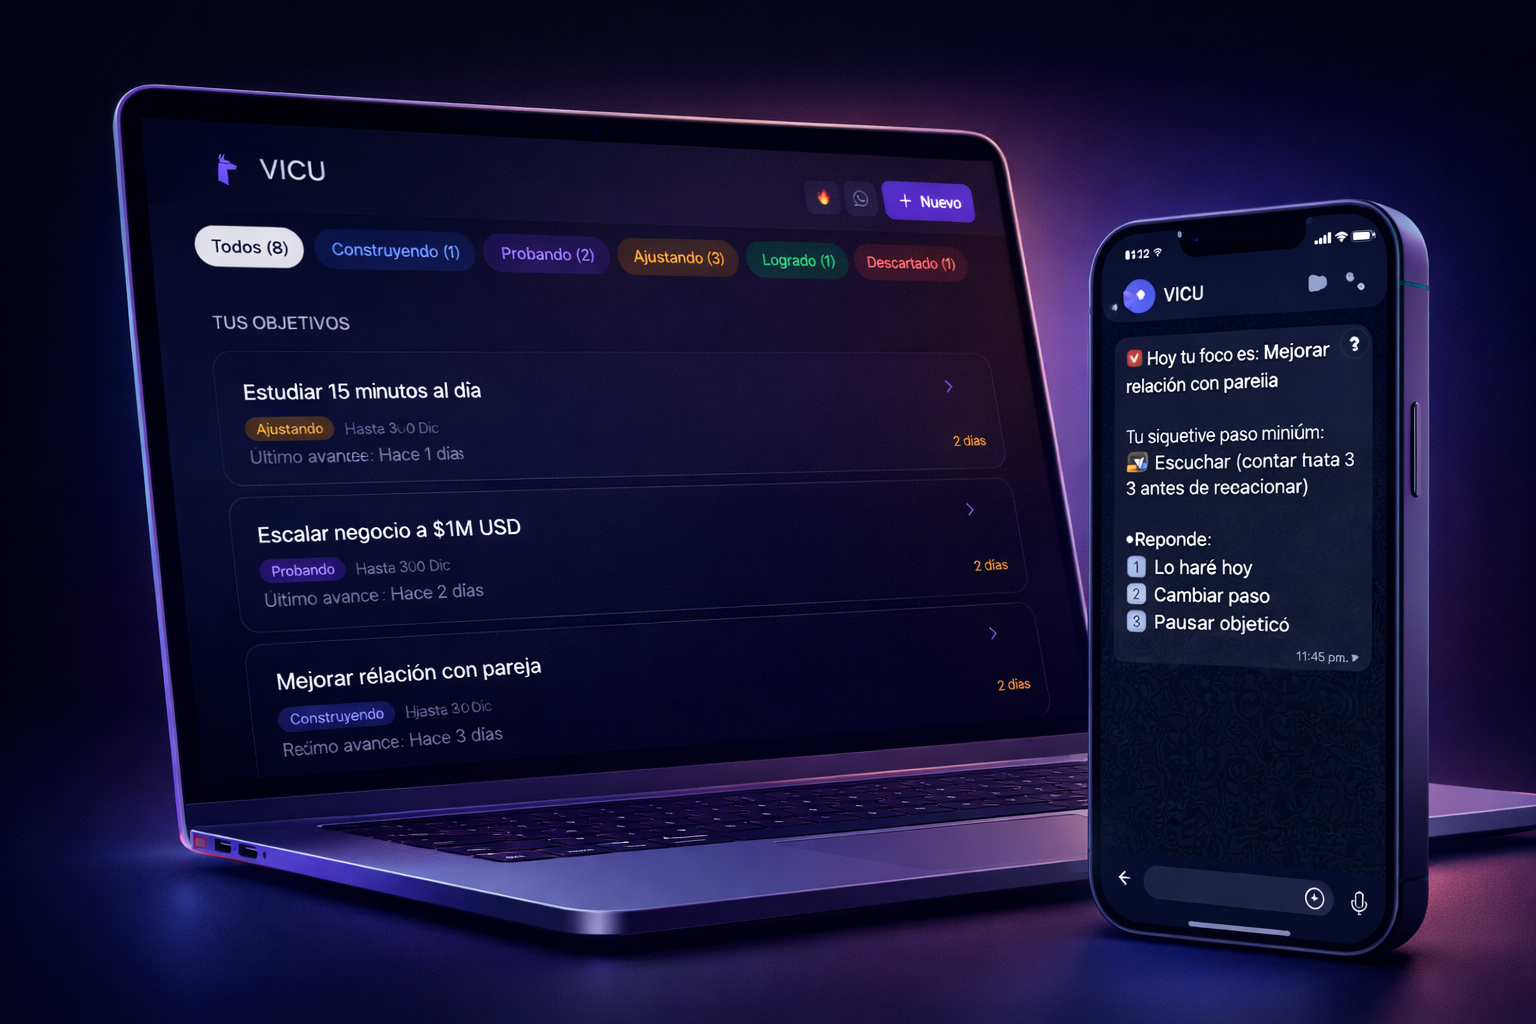
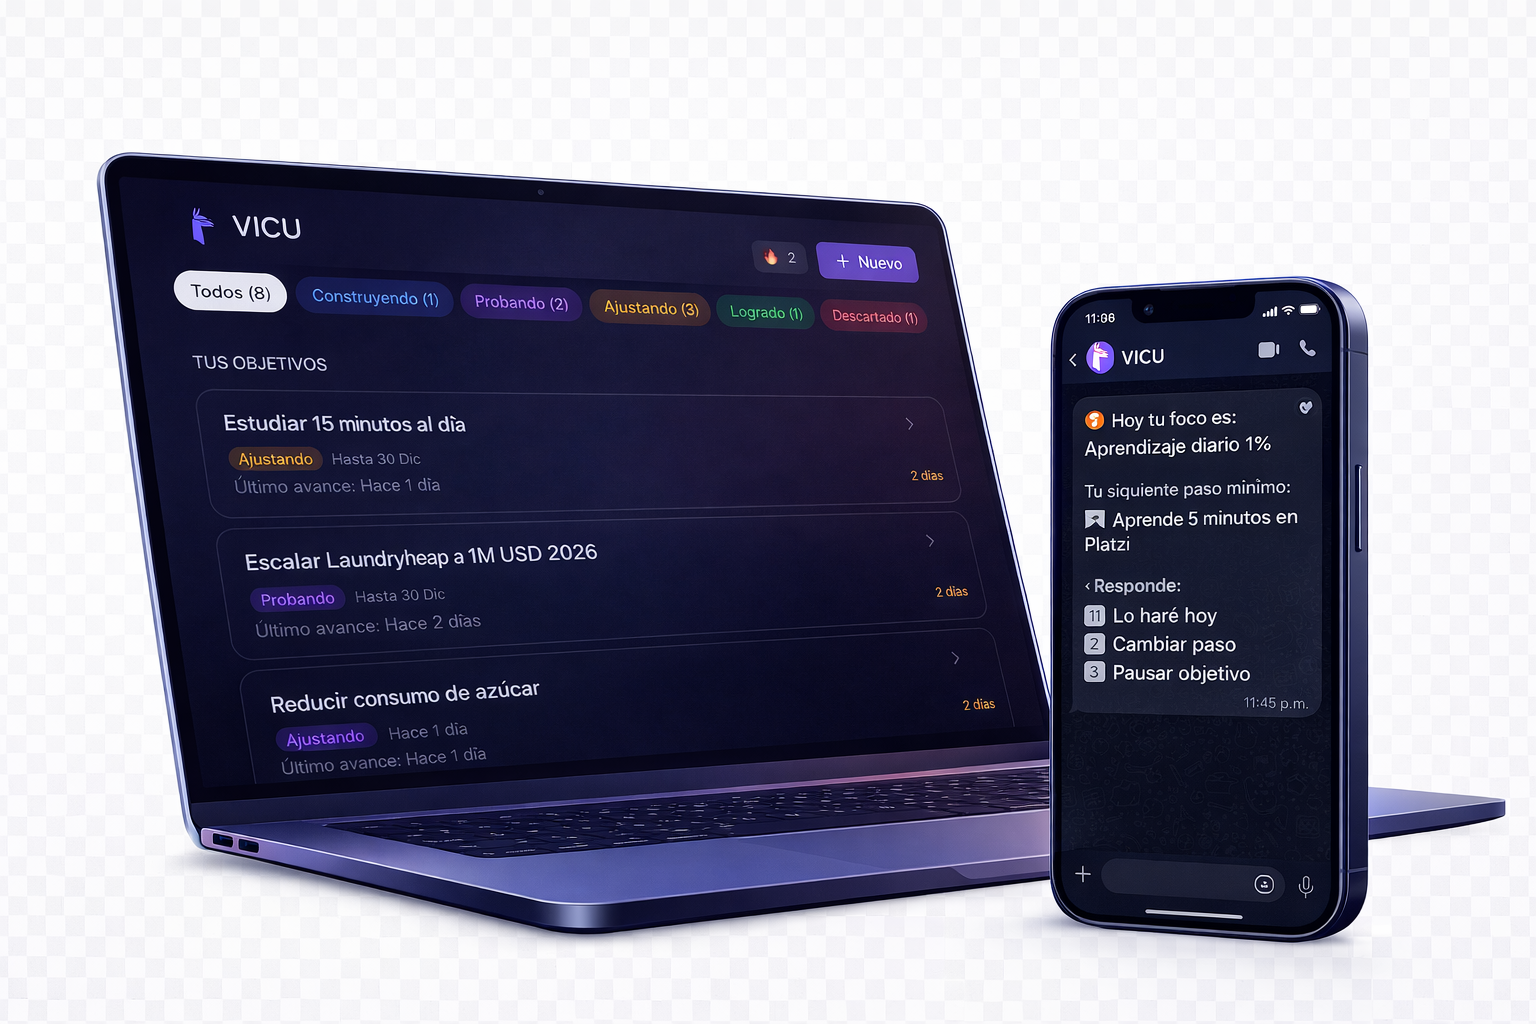
Update landing: image refresh, footer 2026/LatAm, add English version
- Refresh app preview image
- Update copyright to 2026, location to LatAm
- Add English landing at /en

🤖 Generated with [Claude Code](https://claude.com/claude-code)

diff --git a/app/en/page.tsx b/app/en/page.tsx
@@ -4,7 +4,7 @@ import Image from "next/image";
 import Link from "next/link";
 import { ArrowRight, Target, MessageCircle, Sparkles, Check, Zap } from "lucide-react";
 
-export default function LandingPage() {
+export default function LandingPageEN() {
   return (
     <div className="min-h-screen bg-gradient-to-b from-[#020617] via-[#050816] to-[#020617]">
       {/* Hero Section */}
@@ -29,20 +29,20 @@ export default function LandingPage() {
           <div className="text-center max-w-3xl mx-auto">
             <div className="inline-flex items-center gap-2 px-4 py-2 rounded-full bg-indigo-500/10 border border-indigo-500/20 text-indigo-300 text-sm font-medium mb-8 animate-fade-in-down">
               <Sparkles className="w-4 h-4" />
-              <span>Beta privada</span>
+              <span>Private Beta</span>
             </div>
 
             <h1 className="text-4xl sm:text-5xl md:text-6xl font-semibold text-white leading-tight tracking-tight mb-6 animate-fade-in-up">
-              Deja de pensar.
+              Stop overthinking.
               <br />
               <span className="bg-gradient-to-r from-indigo-400 via-purple-400 to-indigo-400 bg-clip-text text-transparent">
-                Empieza a avanzar.
+                Start achieving.
               </span>
             </h1>
 
             <p className="text-lg sm:text-xl text-slate-400 mb-10 max-w-2xl mx-auto leading-relaxed animate-fade-in-up stagger-1">
-              Vicu es tu compañero de IA que convierte tus metas en pasos claros
-              y te manda recordatorios por WhatsApp para que no dejes nada a medias.
+              Vicu is your AI companion that turns your goals into clear steps
+              and sends you WhatsApp reminders so you never leave anything unfinished.
             </p>
 
             <div className="flex flex-col sm:flex-row gap-4 justify-center items-center animate-fade-in-up stagger-2">
@@ -50,11 +50,11 @@ export default function LandingPage() {
                 href="/login"
                 className="group inline-flex items-center gap-2 px-8 py-4 bg-indigo-600 hover:bg-indigo-500 text-white font-medium rounded-full transition-all duration-200 hover:scale-105 hover:shadow-lg hover:shadow-indigo-500/25"
               >
-                Probar Vicu gratis
+                Try Vicu for free
                 <ArrowRight className="w-5 h-5 group-hover:translate-x-1 transition-transform" />
               </Link>
               <span className="text-slate-500 text-sm">
-                Sin tarjeta de crédito
+                No credit card required
               </span>
             </div>
           </div>
@@ -66,7 +66,7 @@ export default function LandingPage() {
               <div className="absolute inset-0 bg-gradient-to-t from-indigo-600/20 via-purple-600/10 to-transparent blur-3xl -z-10 scale-110" />
               <Image
                 src="/vicu-app-preview.png"
-                alt="Vicu - Tu compañero de metas"
+                alt="Vicu - Your goal companion"
                 width={1200}
                 height={750}
                 className="w-full h-auto rounded-xl shadow-2xl shadow-black/50 border border-white/10"
@@ -82,9 +82,9 @@ export default function LandingPage() {
         <div className="max-w-5xl mx-auto px-6">
           <div className="text-center mb-16">
             <h2 className="text-2xl sm:text-3xl font-semibold text-white mb-4">
-              Tienes metas grandes.
+              You have big goals.
               <br />
-              <span className="text-slate-400">Pero algo te frena.</span>
+              <span className="text-slate-400">But something holds you back.</span>
             </h2>
           </div>
 
@@ -92,18 +92,18 @@ export default function LandingPage() {
             {[
               {
                 icon: "🤯",
-                title: "Demasiados pensamientos",
-                description: "Tienes muchas ideas pero no sabes por dónde empezar"
+                title: "Too many thoughts",
+                description: "You have many ideas but don't know where to start"
               },
               {
                 icon: "📅",
-                title: "Siempre para mañana",
-                description: "Te propones cosas y terminas postergándolas indefinidamente"
+                title: "Always tomorrow",
+                description: "You set goals and end up postponing them indefinitely"
               },
               {
                 icon: "🔄",
-                title: "Empiezas, pero no terminas",
-                description: "Comienzas con energía y después pierdes el momentum"
+                title: "Start but never finish",
+                description: "You begin with energy but then lose momentum"
               }
             ].map((item, i) => (
               <div
@@ -127,13 +127,13 @@ export default function LandingPage() {
           <div className="text-center mb-16">
             <div className="inline-flex items-center gap-2 px-4 py-2 rounded-full bg-emerald-500/10 border border-emerald-500/20 text-emerald-400 text-sm font-medium mb-6">
               <Check className="w-4 h-4" />
-              <span>La solución</span>
+              <span>The solution</span>
             </div>
             <h2 className="text-2xl sm:text-3xl font-semibold text-white mb-4">
-              Vicu te ayuda a lograr lo que te propones
+              Vicu helps you achieve what you set out to do
             </h2>
             <p className="text-slate-400 max-w-xl mx-auto">
-              Con inteligencia artificial y recordatorios por WhatsApp
+              With artificial intelligence and WhatsApp reminders
             </p>
           </div>
 
@@ -146,8 +146,8 @@ export default function LandingPage() {
               <div className="w-12 h-12 rounded-xl bg-indigo-500/10 flex items-center justify-center mb-5 group-hover:scale-110 transition-transform">
                 <Target className="w-6 h-6 text-indigo-400" />
               </div>
-              <h3 className="text-lg font-medium text-white mb-3">Cuenta tu meta</h3>
-              <p className="text-slate-400 text-sm leading-relaxed">Escribe qué quieres lograr. Vicu entiende tu objetivo y lo descompone.</p>
+              <h3 className="text-lg font-medium text-white mb-3">Share your goal</h3>
+              <p className="text-slate-400 text-sm leading-relaxed">Write what you want to achieve. Vicu understands your objective and breaks it down.</p>
             </div>
 
             {/* Step 2 */}
@@ -158,8 +158,8 @@ export default function LandingPage() {
               <div className="w-12 h-12 rounded-xl bg-purple-500/10 flex items-center justify-center mb-5 group-hover:scale-110 transition-transform">
                 <Zap className="w-6 h-6 text-purple-400" />
               </div>
-              <h3 className="text-lg font-medium text-white mb-3">Recibe tu siguiente paso</h3>
-              <p className="text-slate-400 text-sm leading-relaxed">La IA analiza tu meta y te sugiere exactamente qué hacer ahora.</p>
+              <h3 className="text-lg font-medium text-white mb-3">Get your next step</h3>
+              <p className="text-slate-400 text-sm leading-relaxed">AI analyzes your goal and suggests exactly what to do now.</p>
             </div>
 
             {/* Step 3 */}
@@ -170,8 +170,8 @@ export default function LandingPage() {
               <div className="w-12 h-12 rounded-xl bg-emerald-500/10 flex items-center justify-center mb-5 group-hover:scale-110 transition-transform">
                 <MessageCircle className="w-6 h-6 text-emerald-400" />
               </div>
-              <h3 className="text-lg font-medium text-white mb-3">Recordatorios en WhatsApp</h3>
-              <p className="text-slate-400 text-sm leading-relaxed">Vicu te escribe para que avances. Responde y marca tu progreso.</p>
+              <h3 className="text-lg font-medium text-white mb-3">WhatsApp reminders</h3>
+              <p className="text-slate-400 text-sm leading-relaxed">Vicu messages you to keep you moving. Reply to track your progress.</p>
             </div>
           </div>
         </div>
@@ -183,22 +183,22 @@ export default function LandingPage() {
           <div className="p-8 sm:p-12 rounded-3xl bg-gradient-to-b from-indigo-600/10 to-transparent border border-indigo-500/20">
             <div className="inline-flex items-center gap-2 px-3 py-1.5 rounded-full bg-amber-500/10 border border-amber-500/20 text-amber-400 text-xs font-medium mb-6">
               <span className="w-2 h-2 rounded-full bg-amber-400 animate-pulse" />
-              Cupos limitados
+              Limited spots
             </div>
 
             <h2 className="text-2xl sm:text-3xl font-semibold text-white mb-4">
-              Únete a la beta privada
+              Join the private beta
             </h2>
             <p className="text-slate-400 mb-8 max-w-lg mx-auto">
-              Estamos invitando a un grupo pequeño de personas que quieren
-              dejar de procrastinar y empezar a lograr sus metas.
+              We&apos;re inviting a small group of people who want to
+              stop procrastinating and start achieving their goals.
             </p>
 
             <Link
               href="/login"
               className="group inline-flex items-center gap-2 px-8 py-4 bg-white text-slate-900 font-medium rounded-full transition-all duration-200 hover:scale-105 hover:shadow-lg hover:shadow-white/10"
             >
-              Quiero entrar
+              I want in
               <ArrowRight className="w-5 h-5 group-hover:translate-x-1 transition-transform" />
             </Link>
           </div>
@@ -217,11 +217,11 @@ export default function LandingPage() {
                 height={32}
               />
               <span className="text-slate-400 text-sm">
-                © 2026 Vicu. Tu compañero de metas.
+                © 2026 Vicu. Your goal companion.
               </span>
             </div>
             <div className="text-slate-500 text-sm">
-              Hecho con amor en LatAm
+              Made with love in LatAm
             </div>
           </div>
         </div>
